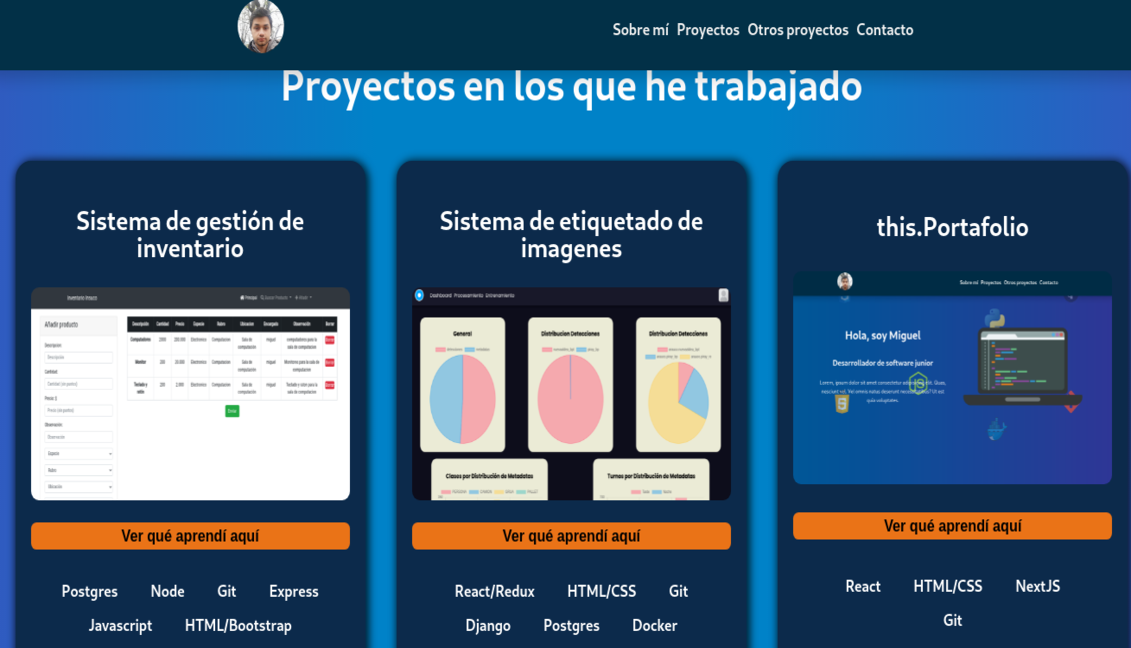
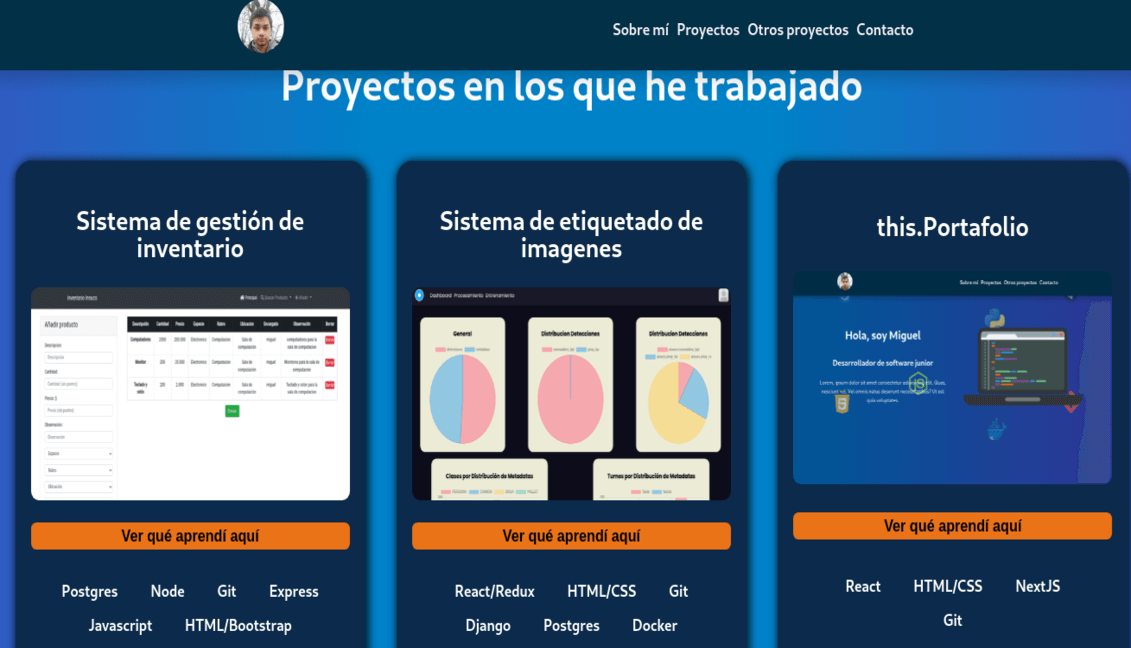
animaciones y performance

Changed region(s): [[0.9284, 0.463, 0.9903, 0.7407]]

diff --git a/components/Layout.js b/components/Layout.js
@@ -1,11 +1,16 @@
-import React, { useState } from 'react';
+import React, { useRef, useState } from 'react';
 import styles from '../styles/layout.module.css';
 
 
 export default function Layout({ children }) {
   const [openNav, setOpenNav] = useState(false);
 
+  const obj = useRef()
+
   const handleNav = () => {
+    if (openNav === false) {
+
+    }
     setOpenNav(e => !e)
   }
 
@@ -20,21 +25,19 @@ export default function Layout({ children }) {
             </div>
             <span className={styles.movil} onClick={handleNav}>
               {openNav ?
-                <img className= {styles.btnAnimX} src="/iconos/x.png" alt="" />
-                : <img className= {styles.btnAnimO} src="/iconos/hamburguesa.png" alt="" />}
+                <img className={styles.btnAnimX} src="/iconos/x.png" alt="" />
+                : <img className={styles.btnAnimO} src="/iconos/hamburguesa.png" alt="" />}
             </span>
           </div>
           <nav>
-            {openNav ?
-              <>
-                <ul className={styles.navResponse}>
-                  <li><a href="#inicio">Sobre mí</a></li>
-                  <li><a href="#proyectos">Proyectos</a></li>
-                  <li><a href="#otros_proyectos">Otros proyectos</a></li>
-                  <li><a href="#contacto">Contacto</a></li>
-                </ul>
-              </>
-              : <></>}
+            <div className={openNav?styles.navResponseMostrada:" "+" "+styles.navResponseOculto}>
+            <ul className={""}>
+              <li><a href="#inicio">Sobre mí</a></li>
+              <li><a href="#proyectos">Proyectos</a></li>
+              <li><a href="#otros_proyectos">Otros proyectos</a></li>
+              <li><a href="#contacto">Contacto</a></li>
+            </ul>
+            </div>
             <ul className={styles.navOriginal}>
               <li><a href="#inicio">Sobre mí</a></li>
               <li><a href="#proyectos">Proyectos</a></li>

diff --git a/components/CardProyecto.js b/components/CardProyecto.js
@@ -14,7 +14,6 @@ function CardProyecto({title, ruta, description, tecnologias, img=true, link }) 
 
 	const nextImg = ()=>{
 		if(!ruta) return
-		console.log('img')
 		setImg(idx=>{
 			const i = (idx%ruta.length)+1
 			if(i>=ruta.length){
@@ -22,20 +21,29 @@ function CardProyecto({title, ruta, description, tecnologias, img=true, link }) 
 			}
 			return i;
 		})
-		setTimeout(()=>{
-			nextImg()
-		}, 4000)
 	}
 
 	useEffect(()=>{
-		nextImg()
+		setInterval(()=>{
+			nextImg()
+		}, 4000)
 	},[])
+
+	const classnames = (idx)=>{
+		if(imgIdx===idx) return styles.active
+
+		if(imgIdx-1===idx){
+			return styles.noActive
+		}else if(imgIdx===0 && idx===ruta.length-1){
+			return styles.noActive
+		}
+	}
 
 	return (
 		<div className={styles.container}>
 			{img?<h3>{title}</h3>:<h4>{title}</h4>}
 			{img && <div className={styles.containerImg}>
-				{ruta.map((item, idx)=><img key={idx} src={"/img-data/"+item} alt="" className={imgIdx===idx?styles.active:""} />)}
+				{ruta.map((item, idx)=><img key={idx} src={"/img-data/"+item} alt="" className={classnames(idx)} />)}
 			</div>}
 			<button className={styles.button} onClick={handleModal}>Ver qué aprendí aquí</button>
 			<div className={styles.tecnologias}>

diff --git a/styles/cardProyecto.module.css b/styles/cardProyecto.module.css
@@ -21,15 +21,33 @@
 .containerImg img{
     width: 100%;
     border-radius: 10px;
-    animation: anim 1.5s linear;
     position: absolute;
-    display: none;
     top: 0;
     left: 0;
+    display: none;
+    transition: all 0.2s linear;
 }
 
 .active{
+    animation: anim 1s linear;
     display: block !important;
+    z-index: 100;
+}
+
+.noActive{
+    display: block !important;
+    animation: anim2 1s linear;
+}
+
+@keyframes anim2 {
+    0%{
+        opacity: 1;
+        transform: translateX(0px)
+    }
+    100%{
+        opacity: 0;
+        transform: translateX(-650px)
+    }
 }
 
 @keyframes anim {
@@ -49,7 +67,7 @@
     }
 }
 
-.containerImg:hover img{
+.containerImg img:hover{
     transform: scale(1.2);
 }
 

diff --git a/styles/layout.module.css b/styles/layout.module.css
@@ -129,8 +129,12 @@
 }
 
 @media screen and (min-width:501px){
-    .navResponse{
-        display:none !important;
+    .navResponseMostrada{
+        display: none;
+    }
+    
+    .navResponseOculto{
+        display: none;
     }
 }
 
@@ -144,17 +148,17 @@
     opacity:0;
 }
 
-.navResponse{
-    animation: nav 0.3s ease-out;
-    
+
+.navResponseMostrada{
+    transition: all 0.2s linear;
+    height: 150px;
+    overflow:hidden;
 }
-@keyframes nav {
-    0%{
-        transform: translateY(-100%);
-    }
-    100%{
-        transform: translateY(0px)
-    }
+
+.navResponseOculto{
+    transition: all 0.2s linear;
+    overflow:hidden;
+    height: 0px;
 }
 
 .btnAnimX{

diff --git a/styles/global.css b/styles/global.css
@@ -8,6 +8,7 @@ body {
   font-size: 18px;
   min-width: 400px;
   user-select: none;
+  scroll-behavior: smooth;
 }
 
 * {
